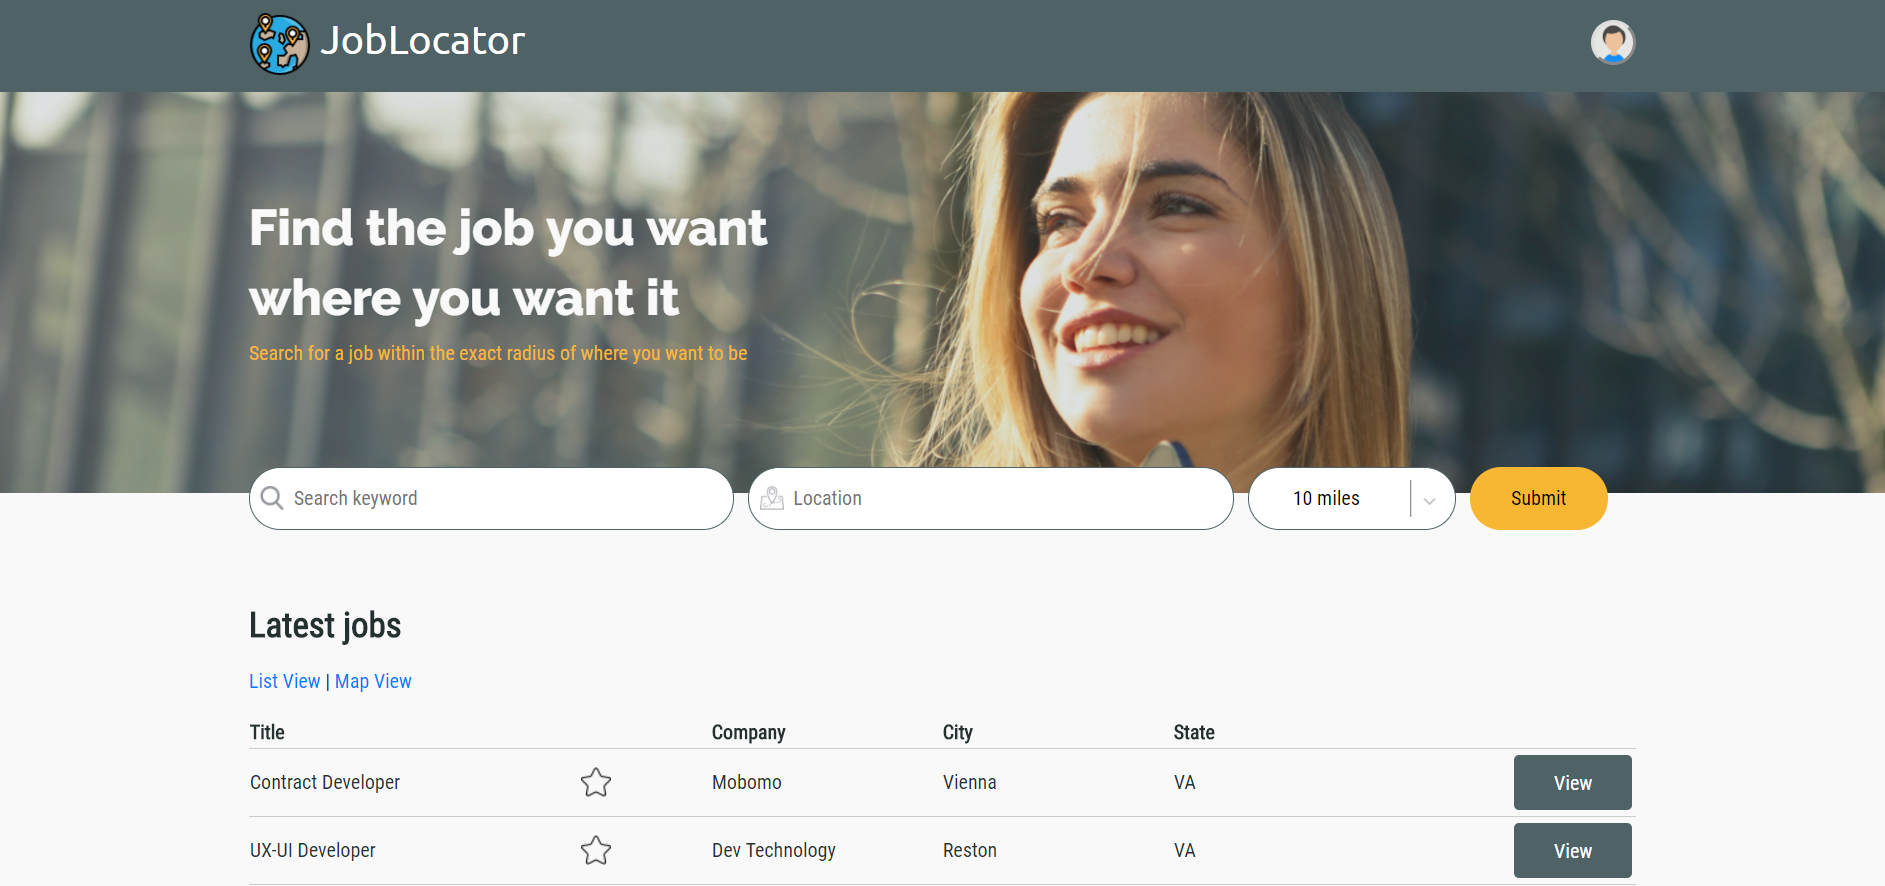
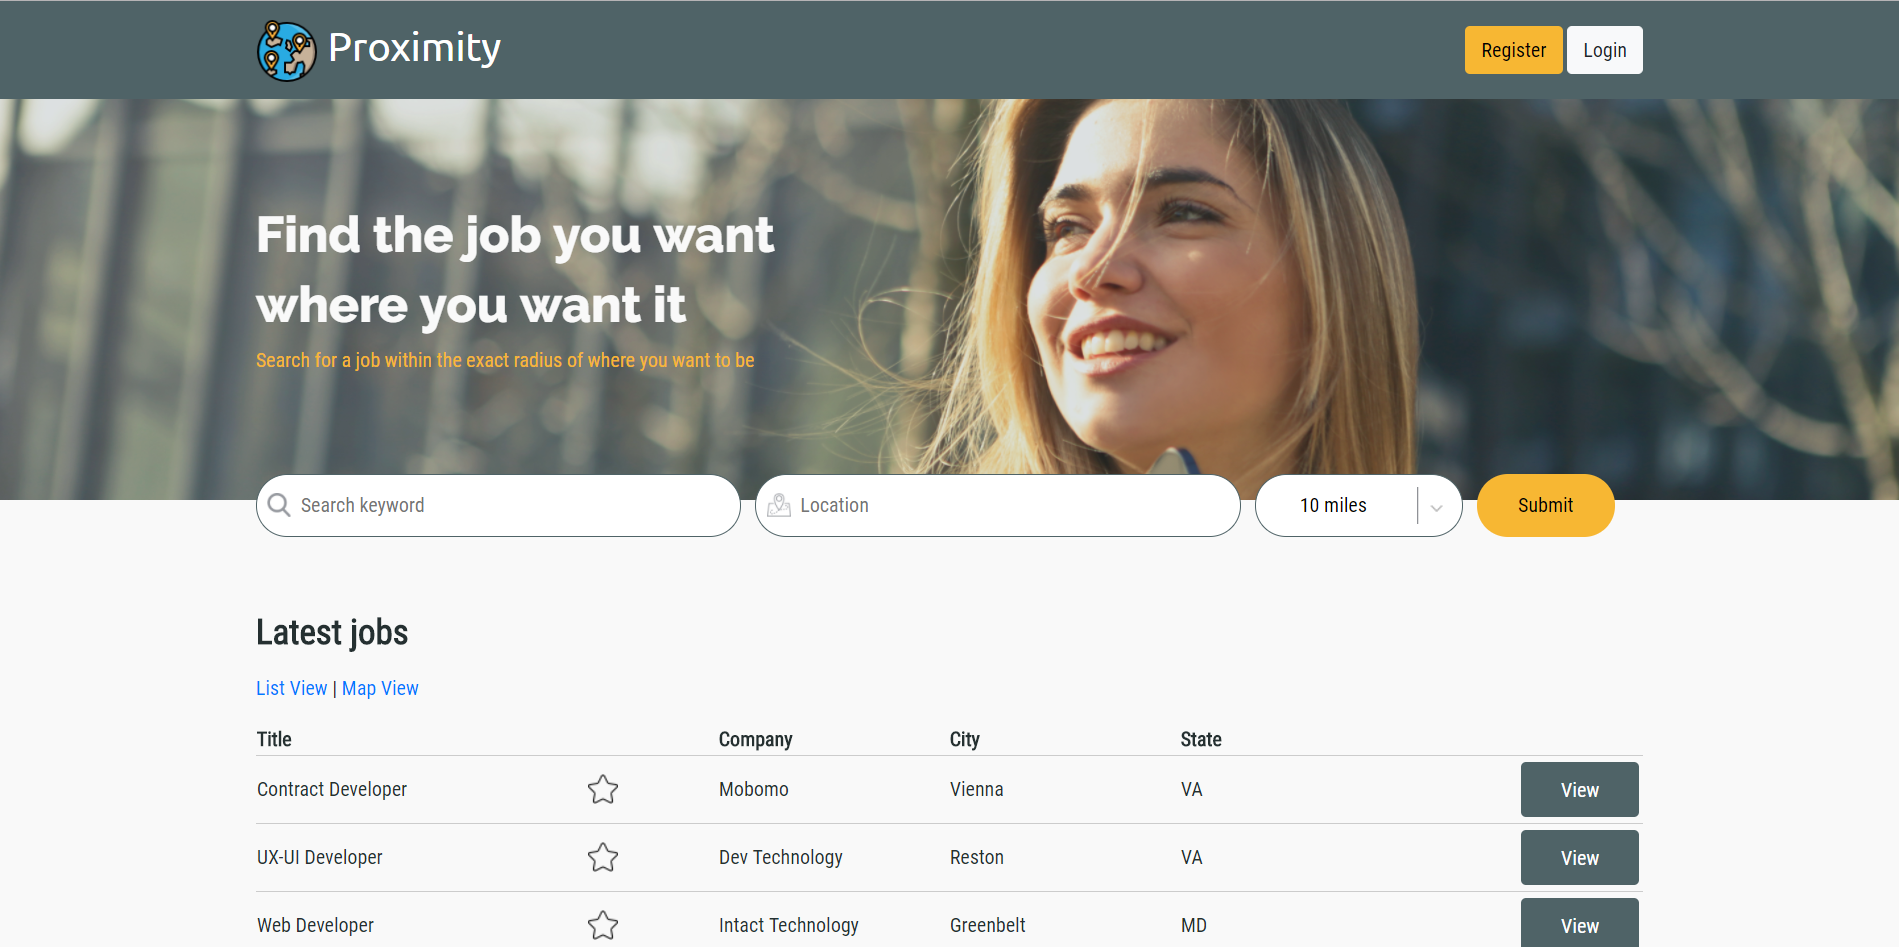
updated Readme for pages with Proximity, functional search list with mapview compliance

diff --git a/public/js/jobSearcher.js b/public/js/jobSearcher.js
@@ -95,11 +95,13 @@ $(document).ready(function() {
         });
         googleMaps()
         googleMapsMarkers(marker,radius)
+        console.log("Radius Markers:", radiusMarkers)
         for (var e = 0; e < results.length; e++ ) {
             for (var j = 0; j < radiusMarkers.length; j++){
-              if ((radiusMarkers[j].position.lat() === parseFloat(results[e].latitude)) && (radiusMarkers[j].position.lng() === parseFloat(results[e].longitude))) {
-              finalSearchQuary.indexOf(results[e].id) === -1 ? finalSearchQuary.push(results[e].id) : console.log("This item already exists");
-              console.log(finalSearchQuary)
+              if (radiusMarkers[j].placeId === results[e].placeID) {
+                finalSearchQuary.push(results[e].id)
+              // finalSearchQuary.indexOf(results[e].id) === -1 ? finalSearchQuary.push(results[e].id) : console.log("This item already exists");
+              // console.log(finalSearchQuary)
                                                   }
                                                 }
         }

diff --git a/README.md b/README.md
@@ -35,6 +35,7 @@ Designed to use the node.js & express.js for server-side code accessing informat
   <img src="MapView.PNG" width="700" height="400"/>
   <hr>
   <img src="RegisterLogin.PNG" width="700" height="400"/>
+  <img src="RecruiterPost.PNG" width="700" height="400"/>
 </p>
 
 
@@ -57,7 +58,7 @@ Designed to use the node.js & express.js for server-side code accessing informat
   - Cookies
 
 ## **Architecture**
-  ![Entity-Relationship Diagram(ERD)](ERD.jpg?raw=true "ERD")
+  ![Entity-Relationship Diagram(ERD)](EntityRelationalDiagram.png?raw=true "ERD")
 
 ## **MVC Compliance**
 		├── config
@@ -95,9 +96,9 @@ Designed to use the node.js & express.js for server-side code accessing informat
 
 	    for (var e = 0; e < results.length; e++ ) {
 		for (var j = 0; j < radiusMarkers.length; j++){
-		  if ((radiusMarkers[j].position.lat() === parseFloat(results[e].latitude)) && 
+		  if ((radiusMarkers[j].position.lat() === parseFloat(results[e].latitude)) &&
 		  (radiusMarkers[j].position.lng() === parseFloat(results[e].longitude))) {
-		  finalSearchQuary.indexOf(results[e].id) === -1 ? 
+		  finalSearchQuary.indexOf(results[e].id) === -1 ?
 		  finalSearchQuary.push(results[e].id) : console.log("This item already exists");
 		  console.log(finalSearchQuary)
 						      }
